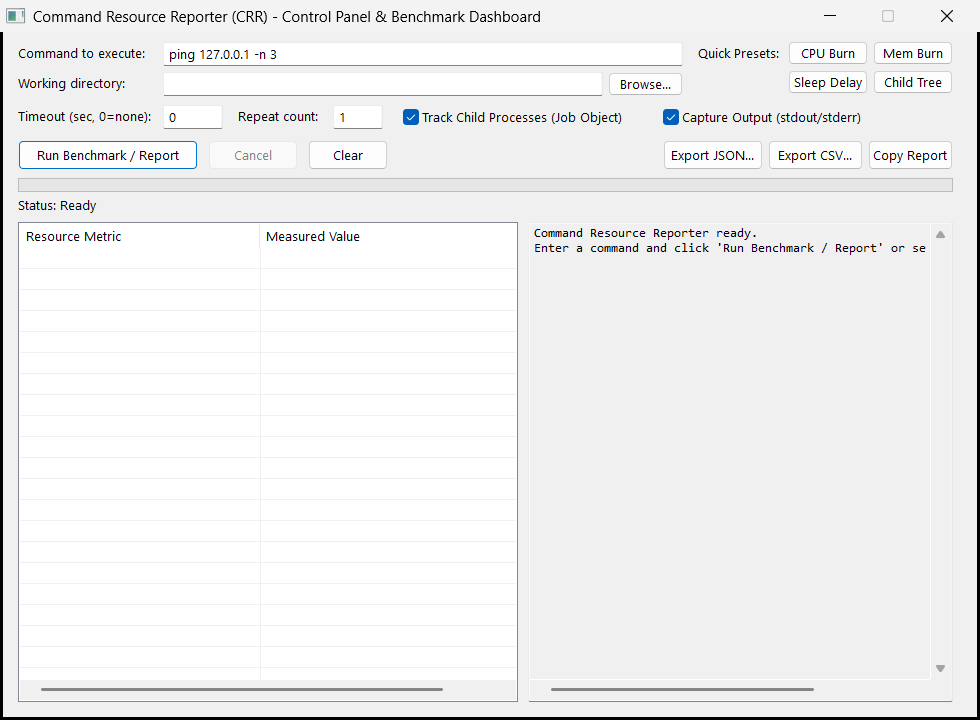
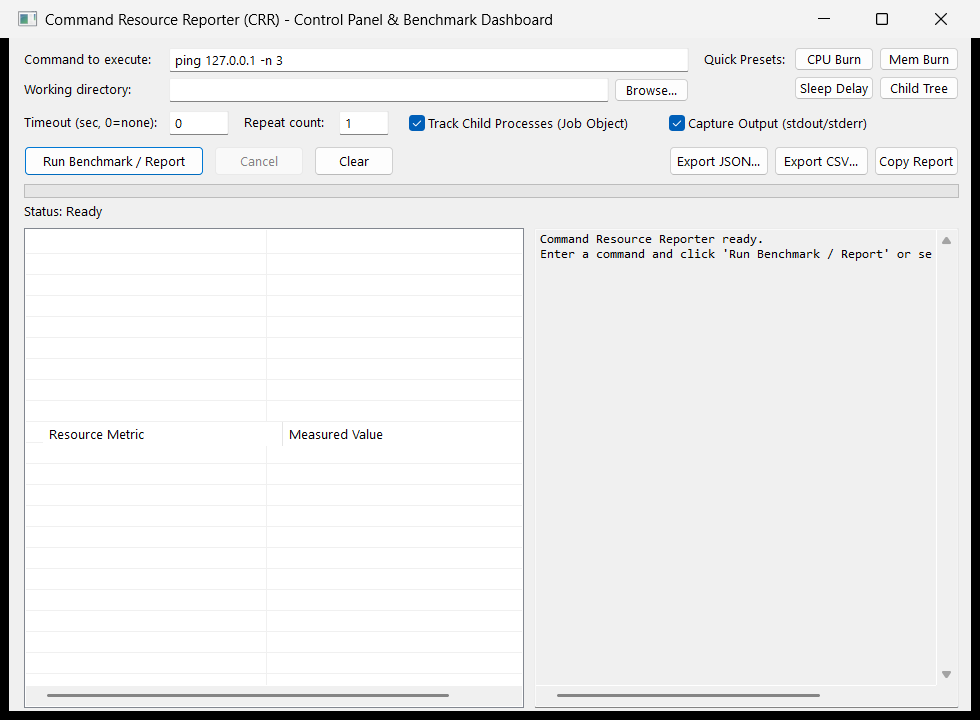
Add proportional GUI resizing and fix console-host spawn failures
The window now reflows its controls in WM_SIZE with an 860x620 minimum, and redirected children launched from the windowless GUI use CREATE_NO_WINDOW so the default terminal host cannot fail with 0x800700E8. Docs and screenshots updated; 66/66 unit assertions and 11/11 GUI checks pass.

diff --git a/src/gui/gui_main.c b/src/gui/gui_main.c
@@ -220,6 +220,65 @@ static void set_log_text(HWND hLog, const char *text) {
 static WNDPROC g_cmdEditProc = NULL;
 
 /**
+ * @brief Creation-time geometry of every child control.
+ *
+ * The GUI is laid out at absolute pixel coordinates. Capturing those rectangles
+ * once lets WM_SIZE rescale them proportionally, so the window can be resized
+ * without rewriting every coordinate by hand.
+ */
+typedef struct {
+    HWND hwnd;
+    RECT design;
+} ctl_geom_t;
+
+static ctl_geom_t g_geom[64];
+static int g_geom_count = 0;
+static int g_design_w = 0;
+static int g_design_h = 0;
+
+static BOOL CALLBACK collect_geom_proc(HWND child, LPARAM parent) {
+    if (g_geom_count >= (int)(sizeof(g_geom) / sizeof(g_geom[0]))) return FALSE;
+    RECT r;
+    if (!GetWindowRect(child, &r)) return TRUE;
+    POINT tl = { r.left, r.top };
+    ScreenToClient((HWND)parent, &tl);
+    g_geom[g_geom_count].hwnd = child;
+    g_geom[g_geom_count].design.left = tl.x;
+    g_geom[g_geom_count].design.top = tl.y;
+    g_geom[g_geom_count].design.right = tl.x + (r.right - r.left);
+    g_geom[g_geom_count].design.bottom = tl.y + (r.bottom - r.top);
+    g_geom_count++;
+    return TRUE;
+}
+
+static void capture_design_layout(HWND hwnd) {
+    RECT client;
+    GetClientRect(hwnd, &client);
+    g_design_w = client.right;
+    g_design_h = client.bottom;
+    g_geom_count = 0;
+    EnumChildWindows(hwnd, collect_geom_proc, (LPARAM)hwnd);
+}
+
+static void layout_children(HWND hwnd) {
+    RECT client;
+    if (g_geom_count == 0 || g_design_w <= 0 || g_design_h <= 0) return;
+    if (!GetClientRect(hwnd, &client) || client.right <= 0 || client.bottom <= 0) return;
+    double sx = (double)client.right / (double)g_design_w;
+    double sy = (double)client.bottom / (double)g_design_h;
+    for (int i = 0; i < g_geom_count; ++i) {
+        const RECT *d = &g_geom[i].design;
+        int x = (int)(d->left * sx + 0.5);
+        int y = (int)(d->top * sy + 0.5);
+        int w = (int)((d->right - d->left) * sx + 0.5);
+        int h = (int)((d->bottom - d->top) * sy + 0.5);
+        if (w < 1) w = 1;
+        if (h < 1) h = 1;
+        MoveWindow(g_geom[i].hwnd, x, y, w, h, TRUE);
+    }
+}
+
+/**
  * @brief Subclass procedure for the command field: Enter triggers Run.
  *
  * A single-line EDIT control swallows VK_RETURN (it only beeps), so the parent
@@ -684,7 +743,21 @@ static LRESULT CALLBACK WndProc(HWND hwnd, UINT msg, WPARAM wParam, LPARAM lPara
 
             /* Apply clean fonts to all controls */
             EnumChildWindows(hwnd, SetChildFontProc, 0);
+            capture_design_layout(hwnd);
 
+            return 0;
+        }
+
+        case WM_SIZE:
+            if (wParam != SIZE_MINIMIZED) layout_children(hwnd);
+            return 0;
+
+        case WM_GETMINMAXINFO: {
+            MINMAXINFO *mmi = (MINMAXINFO*)lParam;
+            RECT min_rect = { 0, 0, 860, 620 };
+            AdjustWindowRectEx(&min_rect, WS_OVERLAPPEDWINDOW, FALSE, WS_EX_APPWINDOW);
+            mmi->ptMinTrackSize.x = min_rect.right - min_rect.left;
+            mmi->ptMinTrackSize.y = min_rect.bottom - min_rect.top;
             return 0;
         }
 
@@ -988,7 +1061,7 @@ int WINAPI WinMain(HINSTANCE hInstance, HINSTANCE hPrevInstance, LPSTR lpCmdLine
         WS_EX_APPWINDOW,
         wc.lpszClassName,
         "Command Resource Reporter (CRR) - Control Panel & Benchmark Dashboard",
-        WS_OVERLAPPED | WS_CAPTION | WS_SYSMENU | WS_MINIMIZEBOX,
+        WS_OVERLAPPEDWINDOW,
         posX, posY, winWidth, winHeight,
         NULL, NULL, hInstance, NULL
     );

diff --git a/src/core/crr_executor_win.c b/src/core/crr_executor_win.c
@@ -356,6 +356,14 @@ int crr_execute_with_callbacks(const crr_options_t *opts,
     /* Step 4: Launch child process in SUSPENDED state */
     DWORD creation_flags = CREATE_SUSPENDED;
 
+    /* A windowless supervisor (the GUI) makes Windows allocate a console for a
+       console-subsystem child; the default terminal host can fail that
+       allocation with ERROR_NO_SYSTEM_RESOURCES (0x800700E8). When output is
+       already redirected, CREATE_NO_WINDOW keeps the child's console hidden. */
+    if ((opts->capture_output || opts->quiet) && GetConsoleWindow() == NULL) {
+        creation_flags |= CREATE_NO_WINDOW;
+    }
+
     /* Start wall-clock timer immediately before process launch */
     QueryPerformanceCounter(&start_time);
 

diff --git a/REPORT_drawio.md b/REPORT_drawio.md
@@ -127,7 +127,7 @@ The GUI follows the same flow on a worker thread: `crr_execute_with_callbacks` p
 
 ### 4.1 System Architectural Overview
 
-The architecture diagram for this section is available as an editable draw.io file: [REPORT_architecture.drawio](./REPORT_architecture.drawio).
+The architecture diagram is rendered as a native Mermaid block and is omitted from this text-only copy. See REPORT.md section 2 for the same diagram.
 
 ### 4.2 Module Deconstruction & Responsibilities
 
@@ -209,7 +209,7 @@ Draining must happen whenever a pipe exists, even when the caller is not interes
 ## 6. GUI Design and Operation
 
 ### 6.1 Layout and Controls
-The Graphical User Interface was constructed in pure C using the Win32 API (Common Controls v6, DPI-aware manifest). It uses a single fixed-size window split into a control strip, a status line, and two side-by-side panes: a 12-row metrics ListView and a read-only monospaced log/report viewer.
+The Graphical User Interface was constructed in pure C using the Win32 API (Common Controls v6, DPI-aware manifest). It opens at 980×720 in a resizable (`WS_OVERLAPPEDWINDOW`) window split into a control strip, a status line, and two side-by-side panes: a 12-row metrics ListView and a read-only monospaced log/report viewer. Every control records its design-time rectangle at creation and is repositioned proportionally in `WM_SIZE`, so widening the window stretches both panes; `WM_GETMINMAXINFO` enforces a 860×620 minimum so no control is squeezed below its usable width.
 
 ![Figure 1 - CRR GUI idle control panel](docs/screenshots/01_gui_idle.png)
 
@@ -268,7 +268,7 @@ Each assertion is checked by the runner's own `CHECK` macro, which prints `[PASS
 | Build command | `build.bat` (8 build stages: core objects, `libcrr.a`, CLI, manifest/resources, GUI, workloads, test runner, completion banner) |
 | Shells used | Windows PowerShell 5.1.26100.9818 and Git Bash |
 | Test command | `bin\test_runner.exe` (or `run_tests.bat`) |
-| GUI checks | `tools\test_gui_interactions.ps1` (Enter, Cancel, close-mid-run; 8 checks) |
+| GUI checks | `tools\test_gui_interactions.ps1` (Enter, resize/reflow, Cancel, close-mid-run; 11 checks) |
 | Result | **66 assertions / 15 suites, 66 passed, 0 failed, exit code 0** |
 
 ### 7.3 Summary of Test Results
@@ -294,7 +294,7 @@ The test suite executed **66 individual assertions** with a **100% pass rate (66
 | **TOTAL** | **66** | **All System Capabilities** | **Zero Failures Encountered** | **PASS** |
 
 ### 7.4 Defects Found and Resolved
-The suite was written before the fixes below were applied, and its first run failed exactly ten assertions (58 total, 48 passed). Each defect was reproduced at CLI/GUI level, fixed, and re-verified with the suite and a manual command. Rows 10–12 were found in later review passes and fixed with the same test-first discipline.
+The suite was written before the fixes below were applied, and its first run failed exactly ten assertions (58 total, 48 passed). Each defect was reproduced at CLI/GUI level, fixed, and re-verified with the suite and a manual command. Rows 10–13 were found in later review passes and fixed with the same test-first discipline.
 
 | # | Defect | Root cause | Fix | Verification |
 | :---: | :--- | :--- | :--- | :--- |
@@ -310,14 +310,15 @@ The suite was written before the fixes below were applied, and its first run fai
 | 10 | A missing command was reported as `SUCCESS (Exit Code: 1)` | `CreateProcessA` failed with `ERROR_FILE_NOT_FOUND`, but the unconditional `cmd.exe /c` fallback launched successfully, so the supervisor reported its own success while cmd printed "is not recognized" and exited 1 | The fallback now runs only when cmd can interpret the line (shell metacharacters, a cmd built-in, or a resolvable program with `.exe/.com/.bat/.cmd`); otherwise the original launch error is returned. CLI exits 1, benchmark mode aborts after the first attempt, and the GUI shows a launch-failure status | 6 new assertions (missing bare name, missing absolute path, quoted token, real exit 42, built-in, metrics status); CLI `FAILED (Launch Error: command not found)`, exit 1; GUI screenshot shows `FAILED / ERROR` |
 | 11 | The GUI log pane could look empty after a shorter report replaced a longer one | An `EDIT` control keeps its previous scroll offset, so the new text was scrolled out of view | Added `set_log_text()`, which writes the text and then resets the selection/caret to line 1 | Figure 4 is captured immediately after the 3-run benchmark; the full launch-failure report is visible |
 | 12 | Child-process page faults and I/O were reported as root-process values only | The Job Object query read `TotalProcesses`/`TotalUserTime` but page faults and I/O came from `GetProcessMemoryInfo` on the root handle, so a build tree's disk traffic was under-counted | Page faults now come from `JOBOBJECT_BASIC_ACCOUNTING_INFORMATION.TotalPageFaultCount`, and I/O byte/operation counters from `JobObjectBasicAndIoAccountingInformation.IoInfo`, taking the maximum of job-wide and root readings | In the `child_spawner` test the aggregate rose from 1,215 to 11,170 page faults and from 2 to 4 write operations; two new assertions |
+| 13 | A GUI-launched console child could fail to start its console (`0x800700E8`) | The GUI has no console, so Windows asked the default terminal host to create one for a console-subsystem child; the host failed the allocation and showed `error 2147942632 when launching "...sleep_delay.exe 6000"` | When output is already redirected (`-c`/`-q`) and `GetConsoleWindow()` is `NULL`, children are spawned with `CREATE_NO_WINDOW`, so no terminal host is involved | Window enumeration during a captured GUI run shows the same console-window set before and during the run (same HWND); Enter/Cancel/close checks still pass |
 
 ### 7.5 Remaining Issues and Limitations
 These items are known, reproducible, and **not fixed**; they are recorded here so the evaluation reflects the actual state of the deliverable.
 
 1. **POSIX fallback is incomplete**: the timeout kills only the direct `/bin/sh` child (no process group), I/O block counts from `getrusage` are stored in the operation-count fields with byte counts left at 0, commit charge is reported as 0, and the progress callback always reports RSS 0. The missing-command classification above is also Windows-only; on POSIX a shell exit 127 is still reported as a normal child exit.
-2. **GUI is Windows-only and fixed-layout**: the window cannot be resized, and every control uses fixed pixel coordinates, so high-DPI displays and unusually narrow windows are not reflowed. (Pressing Enter in the command field does trigger Run; the field is subclassed and routes the key to the Run button.)
+2. **GUI is Windows-only, with DPI-unscaled fonts**: the window is resizable (minimum 860x620 client) and every control is rescaled proportionally from its captured design rectangle, but font sizes stay fixed, so very large windows look sparse rather than re-typeset. (Pressing Enter in the command field does trigger Run; the field is subclassed and routes the key to the Run button.)
 3. **ANSI APIs**: the GUI and executor use the `A` variants, so paths and commands outside the active code page may be misrendered.
-4. **GUI automation is partial**: `tools/capture_gui.ps1` covers launch → preset → run → close, and `tools/test_gui_interactions.ps1` asserts Enter-to-run, Cancel during a run, and closing the window mid-run (exit within 6 s, exit code 0). The file-export dialogs (`GetSaveFileNameA`/`SHBrowseForFolderA`) are modal and are not covered by an automated assertion.
+4. **GUI automation is partial**: `tools/capture_gui.ps1` covers launch → preset → run → close, and `tools/test_gui_interactions.ps1` asserts Enter-to-run, proportional resize/reflow, Cancel during a run, and closing the window mid-run (exit within 6 s, exit code 0). The file-export dialogs (`GetSaveFileNameA`/`SHBrowseForFolderA`) are modal and are not covered by an automated assertion.
 
 ### 7.6 Observer Overhead Measurement (NFR-2)
 CRR measures its own supervision cost: `src/cli/main.c` snapshots its process CPU time (`GetProcessTimes`) immediately before and after `crr_execute`, and `-v` prints the delta, the wall-clock share, and the equivalent number of Windows timer ticks. The CPU counters advance in scheduler-tick units (15.625 ms on the test machine), so a sub-tick cost is reported as `< 15.6 ms` rather than as a false `0.000`.

diff --git a/REPORT.md b/REPORT.md
@@ -236,7 +236,7 @@ Draining must happen whenever a pipe exists, even when the caller is not interes
 ## 6. GUI Design and Operation
 
 ### 6.1 Layout and Controls
-The Graphical User Interface was constructed in pure C using the Win32 API (Common Controls v6, DPI-aware manifest). It uses a single fixed-size window split into a control strip, a status line, and two side-by-side panes: a 12-row metrics ListView and a read-only monospaced log/report viewer.
+The Graphical User Interface was constructed in pure C using the Win32 API (Common Controls v6, DPI-aware manifest). It opens at 980×720 in a resizable (`WS_OVERLAPPEDWINDOW`) window split into a control strip, a status line, and two side-by-side panes: a 12-row metrics ListView and a read-only monospaced log/report viewer. Every control records its design-time rectangle at creation and is repositioned proportionally in `WM_SIZE`, so widening the window stretches both panes; `WM_GETMINMAXINFO` enforces a 860×620 minimum so no control is squeezed below its usable width.
 
 ![Figure 1 - CRR GUI idle control panel](docs/screenshots/01_gui_idle.png)
 
@@ -295,7 +295,7 @@ Each assertion is checked by the runner's own `CHECK` macro, which prints `[PASS
 | Build command | `build.bat` (8 build stages: core objects, `libcrr.a`, CLI, manifest/resources, GUI, workloads, test runner, completion banner) |
 | Shells used | Windows PowerShell 5.1.26100.9818 and Git Bash |
 | Test command | `bin\test_runner.exe` (or `run_tests.bat`) |
-| GUI checks | `tools\test_gui_interactions.ps1` (Enter, Cancel, close-mid-run; 8 checks) |
+| GUI checks | `tools\test_gui_interactions.ps1` (Enter, resize/reflow, Cancel, close-mid-run; 11 checks) |
 | Result | **66 assertions / 15 suites, 66 passed, 0 failed, exit code 0** |
 
 ### 7.3 Summary of Test Results
@@ -321,7 +321,7 @@ The test suite executed **66 individual assertions** with a **100% pass rate (66
 | **TOTAL** | **66** | **All System Capabilities** | **Zero Failures Encountered** | **PASS** |
 
 ### 7.4 Defects Found and Resolved
-The suite was written before the fixes below were applied, and its first run failed exactly ten assertions (58 total, 48 passed). Each defect was reproduced at CLI/GUI level, fixed, and re-verified with the suite and a manual command. Rows 10–12 were found in later review passes and fixed with the same test-first discipline.
+The suite was written before the fixes below were applied, and its first run failed exactly ten assertions (58 total, 48 passed). Each defect was reproduced at CLI/GUI level, fixed, and re-verified with the suite and a manual command. Rows 10–13 were found in later review passes and fixed with the same test-first discipline.
 
 | # | Defect | Root cause | Fix | Verification |
 | :---: | :--- | :--- | :--- | :--- |
@@ -337,14 +337,15 @@ The suite was written before the fixes below were applied, and its first run fai
 | 10 | A missing command was reported as `SUCCESS (Exit Code: 1)` | `CreateProcessA` failed with `ERROR_FILE_NOT_FOUND`, but the unconditional `cmd.exe /c` fallback launched successfully, so the supervisor reported its own success while cmd printed "is not recognized" and exited 1 | The fallback now runs only when cmd can interpret the line (shell metacharacters, a cmd built-in, or a resolvable program with `.exe/.com/.bat/.cmd`); otherwise the original launch error is returned. CLI exits 1, benchmark mode aborts after the first attempt, and the GUI shows a launch-failure status | 6 new assertions (missing bare name, missing absolute path, quoted token, real exit 42, built-in, metrics status); CLI `FAILED (Launch Error: command not found)`, exit 1; GUI screenshot shows `FAILED / ERROR` |
 | 11 | The GUI log pane could look empty after a shorter report replaced a longer one | An `EDIT` control keeps its previous scroll offset, so the new text was scrolled out of view | Added `set_log_text()`, which writes the text and then resets the selection/caret to line 1 | Figure 4 is captured immediately after the 3-run benchmark; the full launch-failure report is visible |
 | 12 | Child-process page faults and I/O were reported as root-process values only | The Job Object query read `TotalProcesses`/`TotalUserTime` but page faults and I/O came from `GetProcessMemoryInfo` on the root handle, so a build tree's disk traffic was under-counted | Page faults now come from `JOBOBJECT_BASIC_ACCOUNTING_INFORMATION.TotalPageFaultCount`, and I/O byte/operation counters from `JobObjectBasicAndIoAccountingInformation.IoInfo`, taking the maximum of job-wide and root readings | In the `child_spawner` test the aggregate rose from 1,215 to 11,170 page faults and from 2 to 4 write operations; two new assertions |
+| 13 | A GUI-launched console child could fail to start its console (`0x800700E8`) | The GUI has no console, so Windows asked the default terminal host to create one for a console-subsystem child; the host failed the allocation and showed `error 2147942632 when launching "...sleep_delay.exe 6000"` | When output is already redirected (`-c`/`-q`) and `GetConsoleWindow()` is `NULL`, children are spawned with `CREATE_NO_WINDOW`, so no terminal host is involved | Window enumeration during a captured GUI run shows the same console-window set before and during the run (same HWND); Enter/Cancel/close checks still pass |
 
 ### 7.5 Remaining Issues and Limitations
 These items are known, reproducible, and **not fixed**; they are recorded here so the evaluation reflects the actual state of the deliverable.
 
 1. **POSIX fallback is incomplete**: the timeout kills only the direct `/bin/sh` child (no process group), I/O block counts from `getrusage` are stored in the operation-count fields with byte counts left at 0, commit charge is reported as 0, and the progress callback always reports RSS 0. The missing-command classification above is also Windows-only; on POSIX a shell exit 127 is still reported as a normal child exit.
-2. **GUI is Windows-only and fixed-layout**: the window cannot be resized, and every control uses fixed pixel coordinates, so high-DPI displays and unusually narrow windows are not reflowed. (Pressing Enter in the command field does trigger Run; the field is subclassed and routes the key to the Run button.)
+2. **GUI is Windows-only, with DPI-unscaled fonts**: the window is resizable (minimum 860x620 client) and every control is rescaled proportionally from its captured design rectangle, but font sizes stay fixed, so very large windows look sparse rather than re-typeset. (Pressing Enter in the command field does trigger Run; the field is subclassed and routes the key to the Run button.)
 3. **ANSI APIs**: the GUI and executor use the `A` variants, so paths and commands outside the active code page may be misrendered.
-4. **GUI automation is partial**: `tools/capture_gui.ps1` covers launch → preset → run → close, and `tools/test_gui_interactions.ps1` asserts Enter-to-run, Cancel during a run, and closing the window mid-run (exit within 6 s, exit code 0). The file-export dialogs (`GetSaveFileNameA`/`SHBrowseForFolderA`) are modal and are not covered by an automated assertion.
+4. **GUI automation is partial**: `tools/capture_gui.ps1` covers launch → preset → run → close, and `tools/test_gui_interactions.ps1` asserts Enter-to-run, proportional resize/reflow, Cancel during a run, and closing the window mid-run (exit within 6 s, exit code 0). The file-export dialogs (`GetSaveFileNameA`/`SHBrowseForFolderA`) are modal and are not covered by an automated assertion.
 
 ### 7.6 Observer Overhead Measurement (NFR-2)
 CRR measures its own supervision cost: `src/cli/main.c` snapshots its process CPU time (`GetProcessTimes`) immediately before and after `crr_execute`, and `-v` prints the delta, the wall-clock share, and the equivalent number of Windows timer ticks. The CPU counters advance in scheduler-tick units (15.625 ms on the test machine), so a sub-tick cost is reported as `< 15.6 ms` rather than as a false `0.000`.

diff --git a/README.md b/README.md
@@ -119,7 +119,7 @@ Command Resource Reporter/
 │       └── output_flood.c          # 200 KB stdout flood for pipe deadlock regression
 ├── tools/
 │   ├── capture_gui.ps1             # Reproducible GUI screenshot capture script
-│   └── test_gui_interactions.ps1   # Enter/Cancel/close-mid-run assertions against the real GUI
+│   └── test_gui_interactions.ps1   # Enter/resize/cancel/close-mid-run assertions against the real GUI
 ├── docs/
 │   └── screenshots/                # GUI screenshots referenced by REPORT.md
 ├── .gitignore                      # Excludes bin/, build/, object files and test logs
@@ -274,7 +274,7 @@ powershell -NoProfile -ExecutionPolicy Bypass -File tools\capture_gui.ps1
 ```
 The resulting images are referenced by [REPORT.md](./REPORT.md) §6.1.
 
-Interactive behavior is asserted separately by `tools\test_gui_interactions.ps1`, which presses Enter in the command field, cancels a 6 s run, and closes the window mid-run:
+Interactive behavior is asserted separately by `tools\test_gui_interactions.ps1` (11 checks), which presses Enter in the command field, resizes the window and verifies every control reflows and returns to its original rectangle, cancels a 6 s run, and closes the window mid-run:
 ```powershell
 powershell -NoProfile -ExecutionPolicy Bypass -File tools\test_gui_interactions.ps1
 ```
@@ -318,7 +318,7 @@ Measured with `bin\crr.exe -- bin\cpu_burn.exe 250` on Windows 11 (`10.0.26300.9
 ## 11. Known Limitations
 
 - **POSIX fallback is reduced**: timeouts terminate only the direct `/bin/sh` child (no process group), I/O byte counters are not populated (`getrusage` block counts land in the operation fields), commit charge is 0, progress callbacks always report RSS 0, and a shell exit 127 is not reclassified as a launch failure.
-- **GUI**: Windows-only and fixed-layout (no resize; fixed control coordinates). Pressing Enter in the command field does trigger Run — the field is subclassed and routes the key through the same enabled/disabled Run path as the button.
+- **GUI**: Windows-only, and the layout scales proportionally rather than reflowing: controls keep their design-time positions, stretched with the window, so a very wide window makes the two panes taller/wider but not better balanced. Minimum size is 860×620. Fonts are not re-scaled for high-DPI displays. Pressing Enter in the command field does trigger Run — the field is subclassed and routes the key through the same enabled/disabled Run path as the button.
 - **ANSI code page**: paths/commands using characters outside the active code page may be misrendered (the `A` Win32 APIs are used throughout).
 - **Observer overhead is quantified, not zero**: `-v` reports CRR's own CPU cost while supervising. It is a fixed per-run charge of about one scheduler tick, which is 0.04% of a 12-core host for a 3 s target but dominates sub-second runs (see REPORT.md §7.6). Windows quantizes process CPU counters to 15.625 ms, so sub-tick costs are reported as `< 15.6 ms`.
 - **Privilege separation**: processes spawned with elevated UAC privileges from an un-elevated prompt cannot be assigned to user-level Job Objects due to Windows kernel security restrictions.
